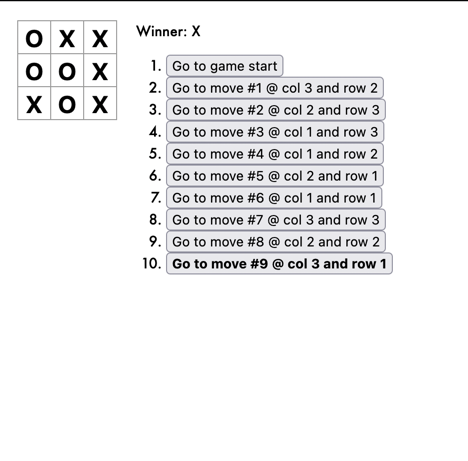
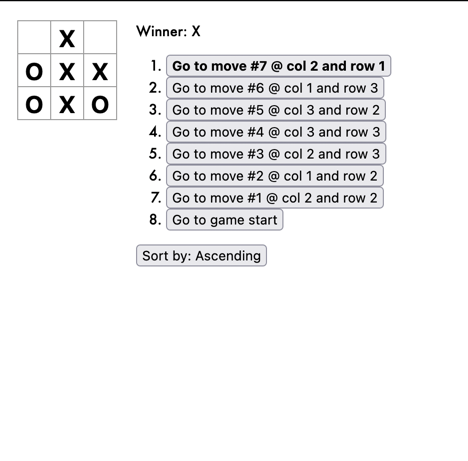
Add a toggle button that lets you sort the moves in either ascending or descending order

diff --git a/src/components/Game.js b/src/components/Game.js
@@ -14,7 +14,8 @@ export class Game extends React.Component {
             //We’ll set the first move to be “X” by default.
             xIsNext: true,
             //which step we’re currently viewing.
-            stepNumber: 0
+            stepNumber: 0,
+            isDescending: true
         }
     }
 
@@ -59,6 +60,12 @@ export class Game extends React.Component {
         })
     }
 
+    sortHistory() {
+        this.setState({
+            isDescending: !this.state.isDescending
+        })
+    }
+
     render() {
         const history = this.state.history;
         const current = history[this.state.stepNumber];
@@ -97,7 +104,10 @@ export class Game extends React.Component {
                 </div>
                 <div className="game-info">
                     <div>{status}</div>
-                    <ol>{moves}</ol>
+                    <ol>{this.state.isDescending ? moves : moves.reverse()}</ol>
+                    <button onClick={() => this.sortHistory()}>
+                        Sort by: {this.state.isDescending ? 'Descending' : 'Ascending'}
+                    </button>
                 </div>
             </div>
         );
